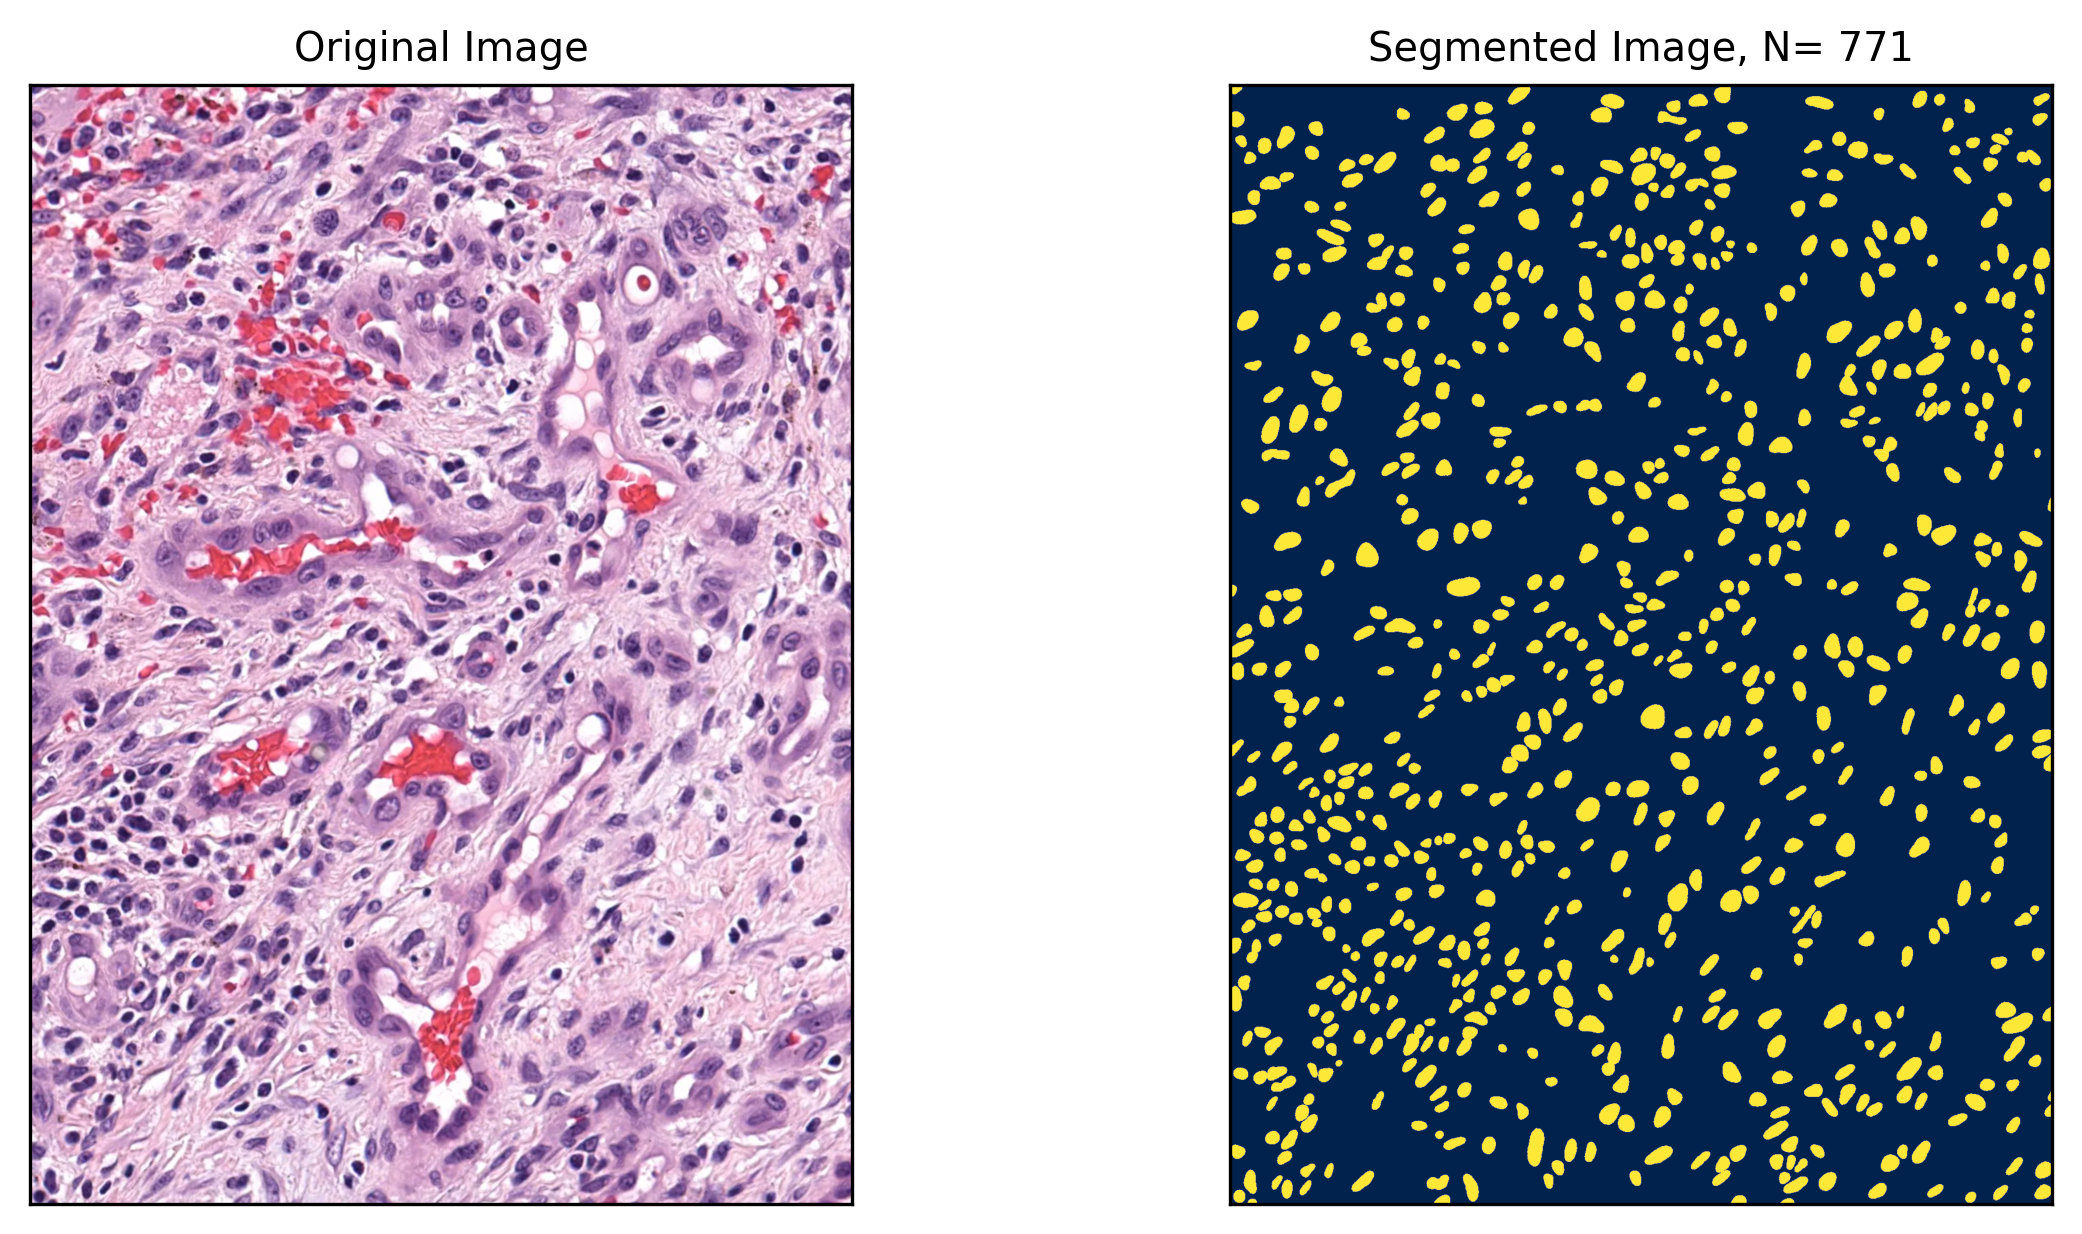
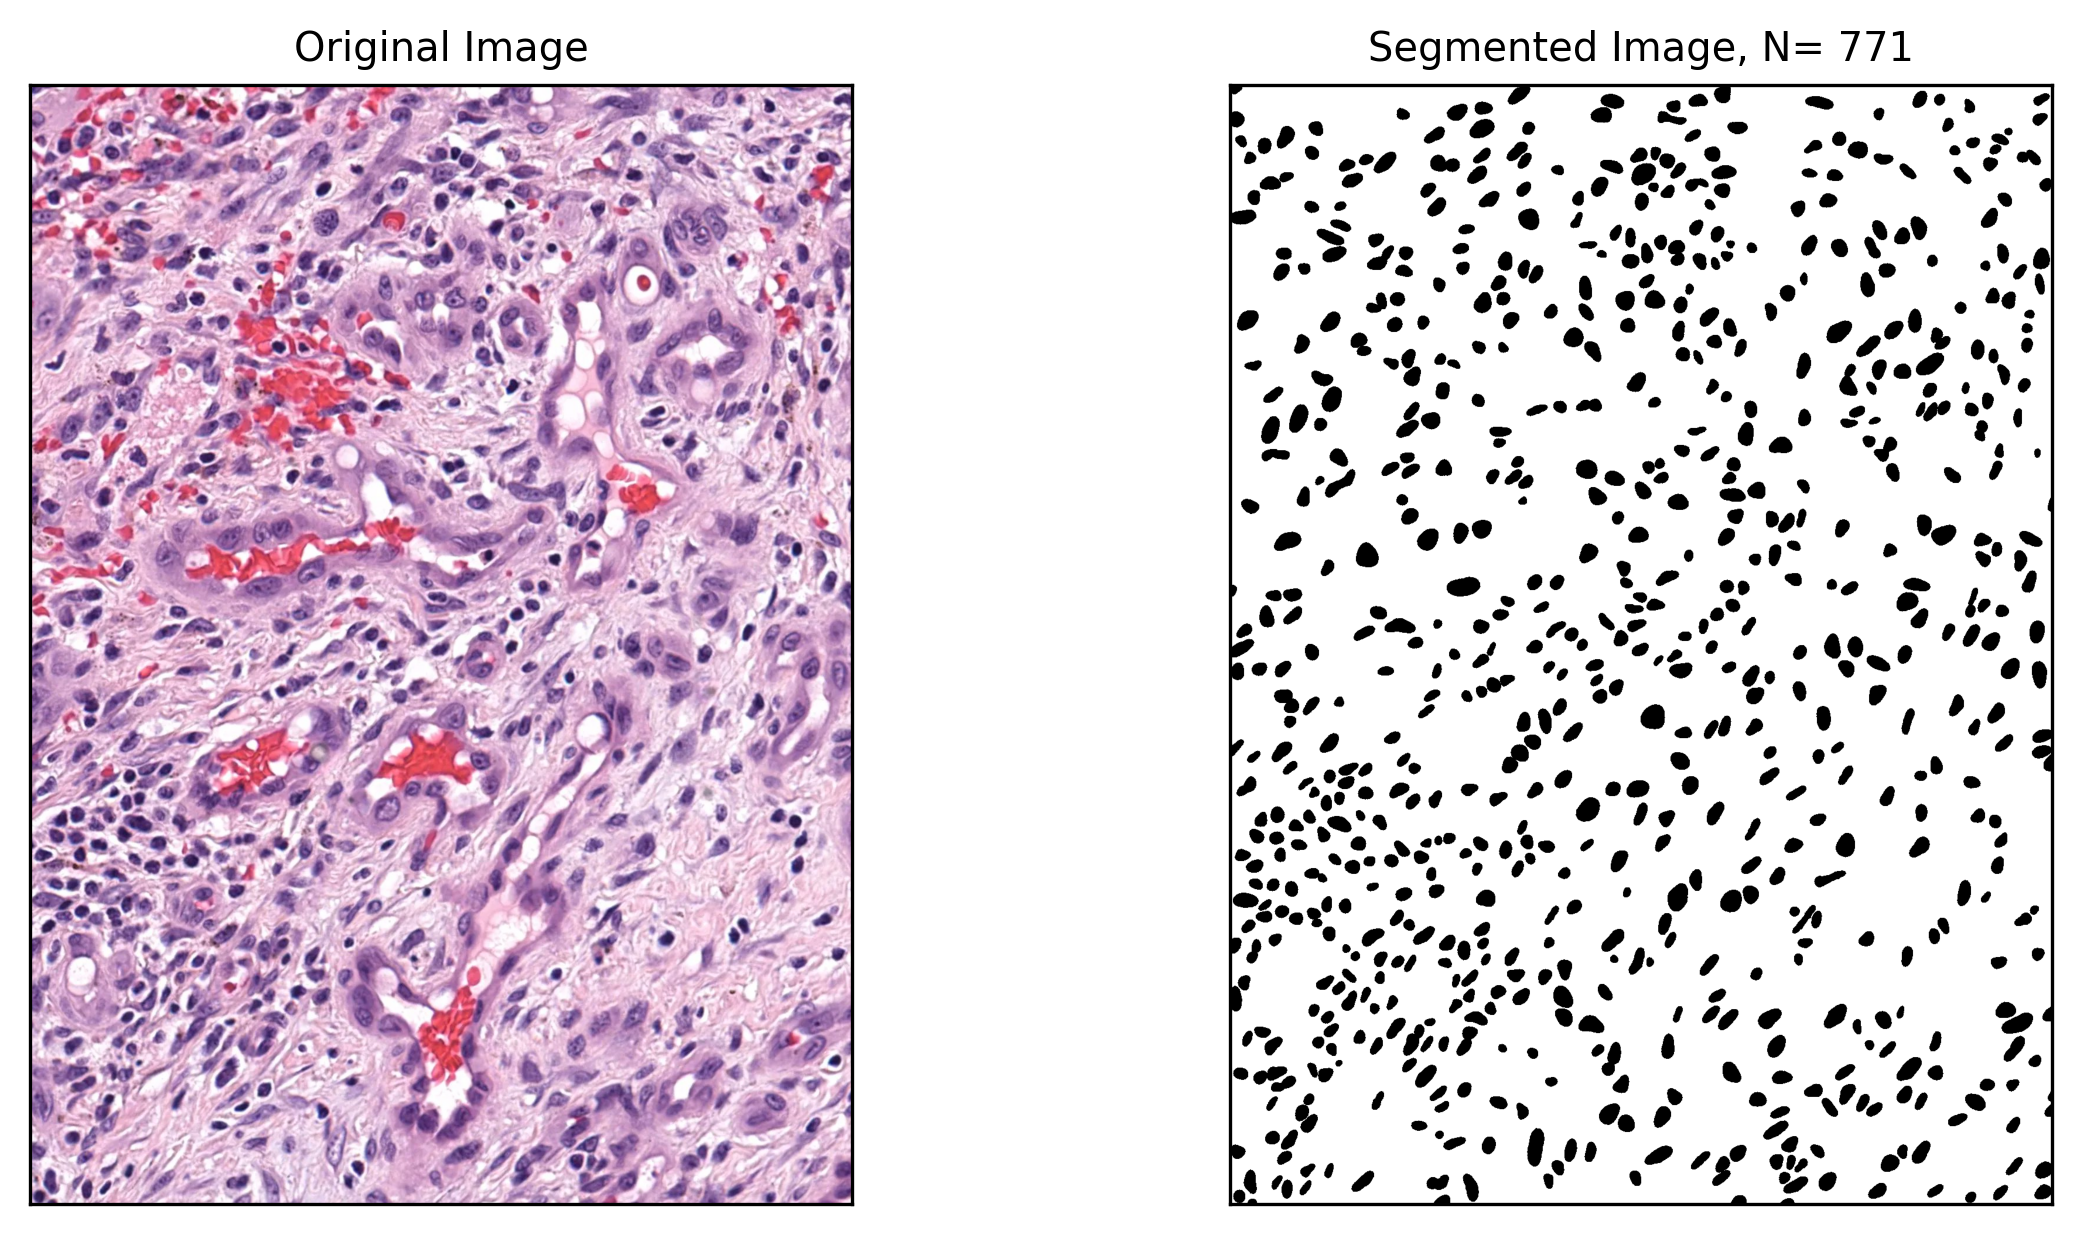
Changed cmap to binary

diff --git a/analysis.py b/analysis.py
@@ -52,7 +52,7 @@ for jpeg_file in jpeg_files:
 
     im = ax_array[0, 0].imshow(rgb_image)
 
-    im = ax_array[0, 1].imshow(modified_labels, cmap = 'cividis', vmin = 0, vmax = 1)
+    im = ax_array[0, 1].imshow(modified_labels, cmap = 'binary', vmin = 0, vmax = 1)
 
     ax_array[0, 0].set_title('Original Image')
     ax_array[0, 1].set_title('Segmented Image, N= ' + str(len(more_info['points'])))
